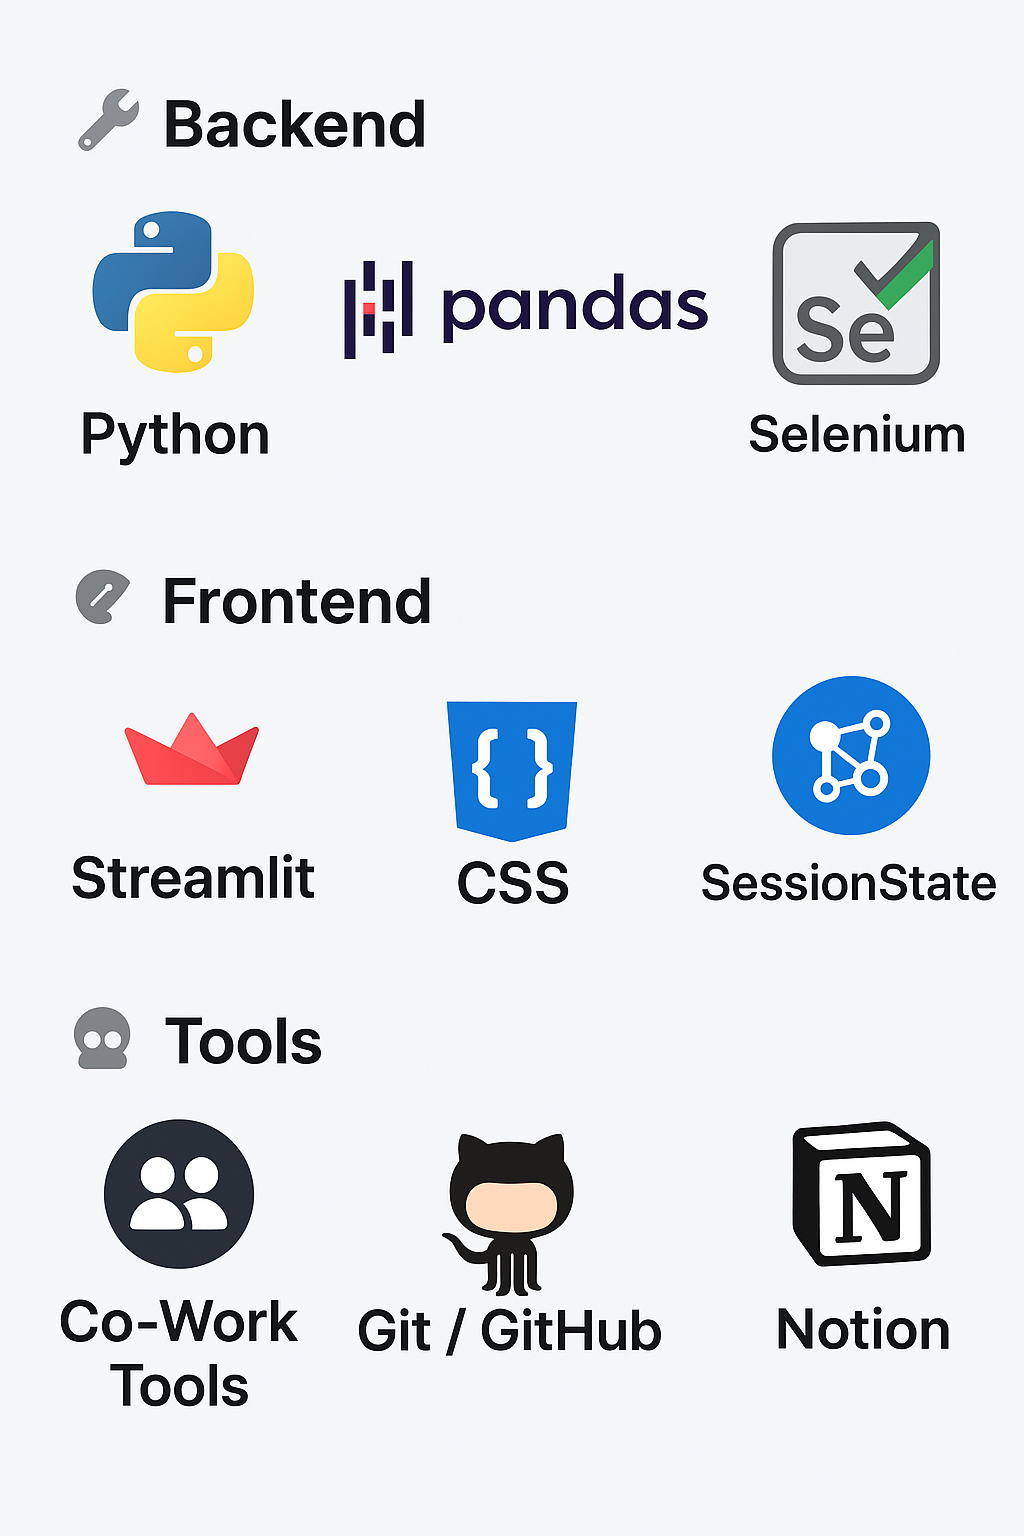
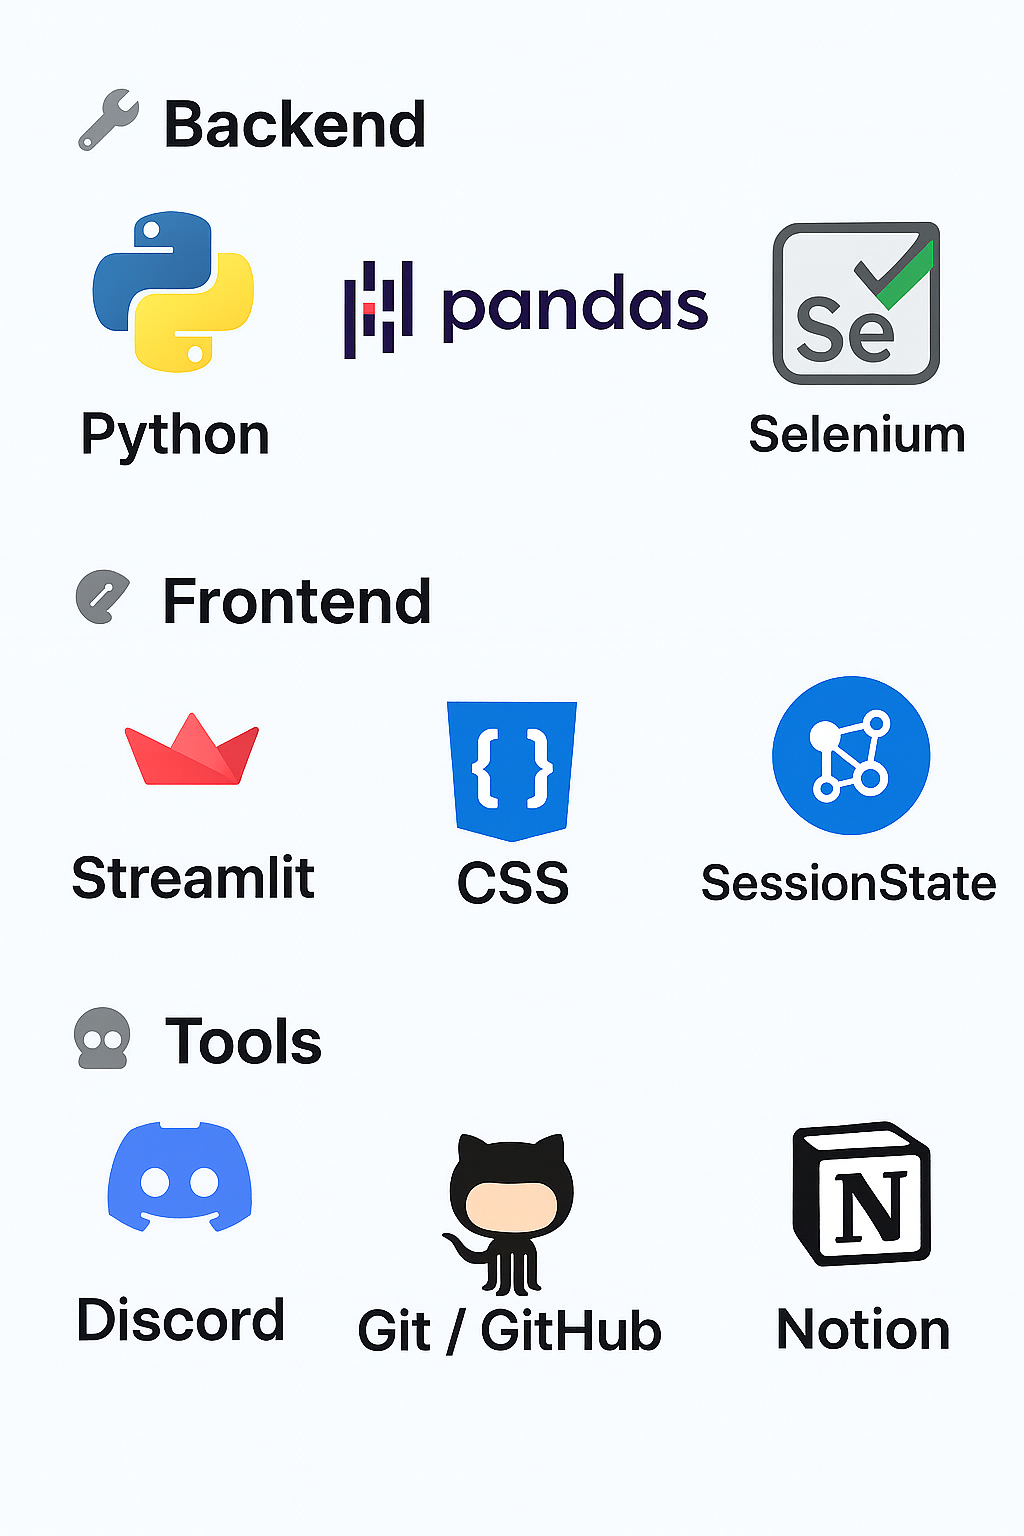
리드미 수정, 이미지 변경

Changed region(s): [[0.0625, 0.7188, 0.2812, 0.9375]]

diff --git a/readme.md b/readme.md
@@ -129,10 +129,9 @@
 `CSS`
 
 🧰 Tools :
-`Co-Work Tools`
+`Discord`
 `Git / GitHub`
 `Notion`
-`Discord`
 
 ### ✨ 버전관리
 
